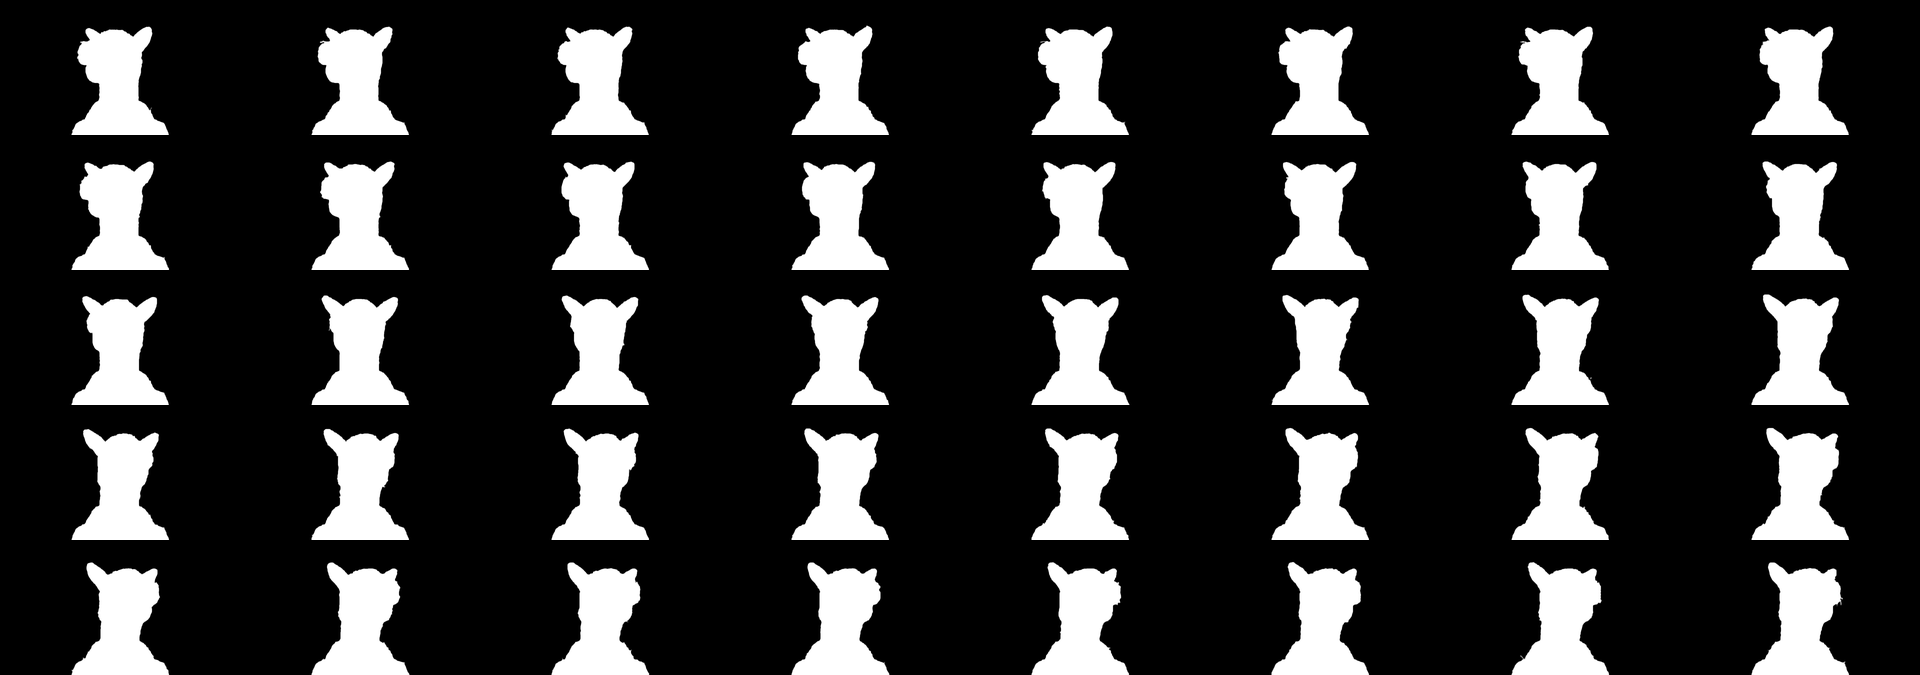
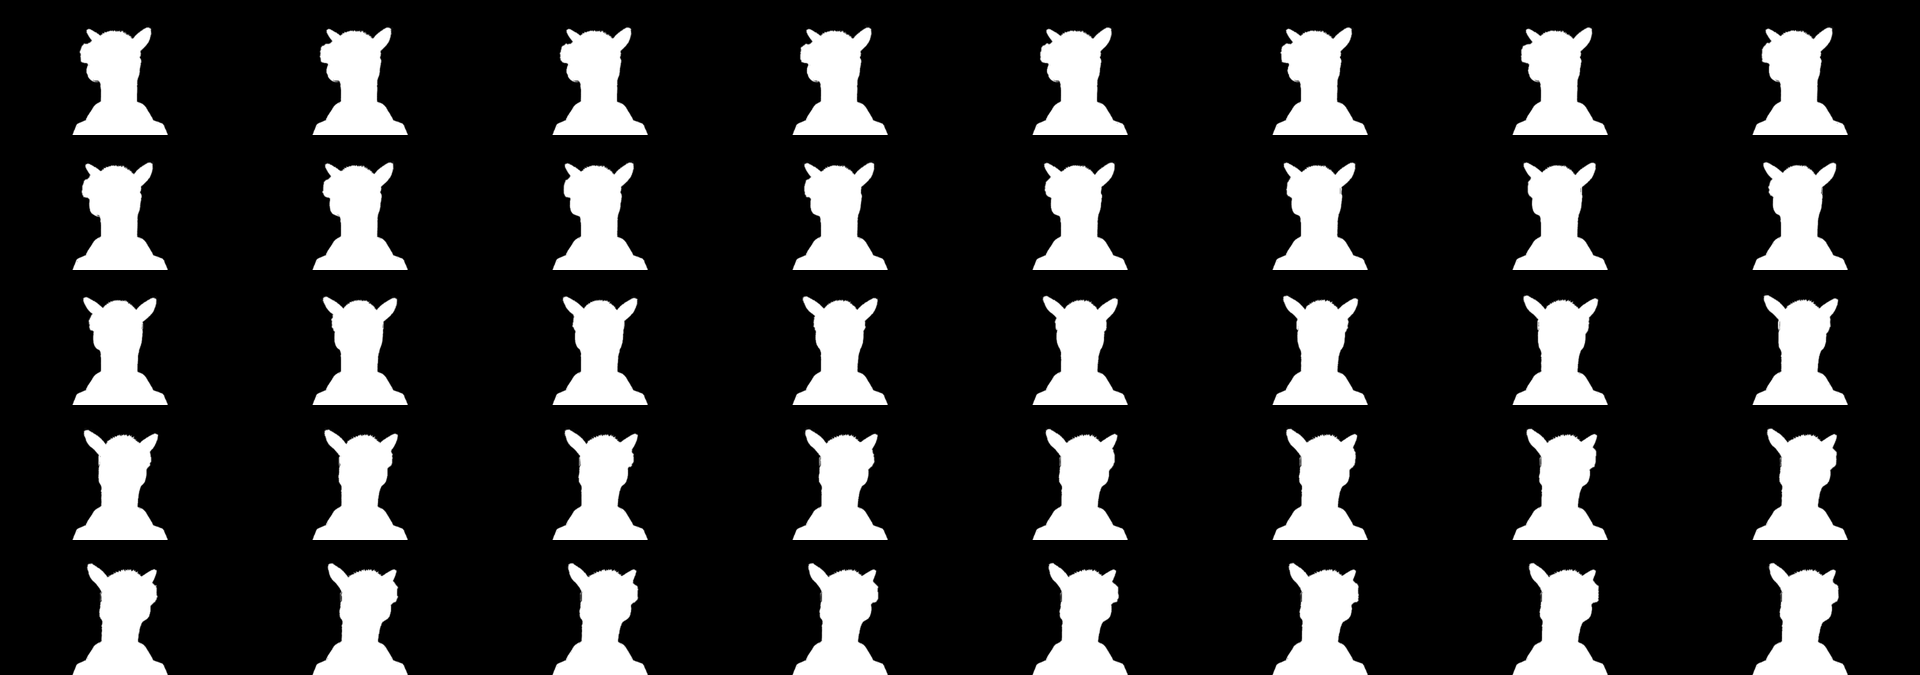
Тёмная тема: в атласе готовая альфа (difference matting) вместо масок
Все шейдерные эвристики (кеинг, порог яркости, аддитивный свет) давали
артефакты по очереди: чёрную обводку, серую грязь полутонов, розовый
ободок от свечения. Теперь альфа считается оффлайн честным difference
matting: для каждого кадра оценивается локальный фон (инпейнт размытием,
включая розовое свечение) и покрытие ворса = свет пикселя над этим
фоном; внутри фигуры сплошняк (эрозия с border_value=1 — без полосы у
нижнего края кадра). Шейдер только выбирает кадр атласа по currentTime
и применяет альфу как есть. Свечение по построению уходит в фон.

Проверено оффлайн-композитом на белом (ровно то, что видит браузер
поверх букв) и в браузере на dpr 1.5: позы t=0 и анфас, зумы макушки и
уха на буквах — чисто.

diff --git a/src/components/SubjectKeyCanvas.tsx b/src/components/SubjectKeyCanvas.tsx
@@ -59,23 +59,13 @@ void main() {
   vec4 c = texture2D(uTex, uv);
   float a;
   if (uDark > 0.5) {
-    // Тёмная тема: кеинг тёмного ворса по тёмному фону даёт грязь, а
-    // статичная маска не успевает за поворотом головы — берём покадровую
-    // маску из атласа по текущему времени видео, соседние кадры смешиваем
+    // Тёмная тема: в атласе — ГОТОВАЯ покадровая альфа (difference matting
+    // оффлайн: из пикселя вычтен локальный фон вместе со свечением, ворс =
+    // покрытие по остатку света; build_alpha_atlas.py). Шейдер только
+    // выбирает кадр по video.currentTime и смешивает соседние.
     float f = clamp(uFrame, 0.0, 39.0);
     float i0 = floor(f);
-    float m = mix(atlasMask(uv, i0), atlasMask(uv, min(i0 + 1.0, 39.0)), f - i0);
-    // Внутри фигуры — сплошняк. В поясе кромки фон видео чёрный, значит
-    // пиксель = свет ворса, уже «премультиплаенный» чёрным: отдаём его цвет
-    // как есть (без умножения на альфу), альфа = оценка покрытия по яркости.
-    // Композитор сложит: ворс светится ПОВЕРХ буквы, буква просвечивает в
-    // тёмных местах — ни чёрной обводки, ни серой грязи у полутонов.
-    float luma = dot(c.rgb, vec3(0.299, 0.587, 0.114));
-    float solid = smoothstep(0.62, 0.85, m);
-    float band = smoothstep(0.15, 0.4, m);
-    gl_FragColor = vec4(c.rgb * max(solid, band),
-                        max(solid, band * clamp(luma * 3.0, 0.0, 1.0)));
-    return;
+    a = mix(atlasMask(uv, i0), atlasMask(uv, min(i0 + 1.0, 39.0)), f - i0);
   } else {
     // Светлая: кеинг даёт точную кромку глянца, маска страхует от дыр
     float d = distance(c.rgb, uKey) / 1.7320508;
